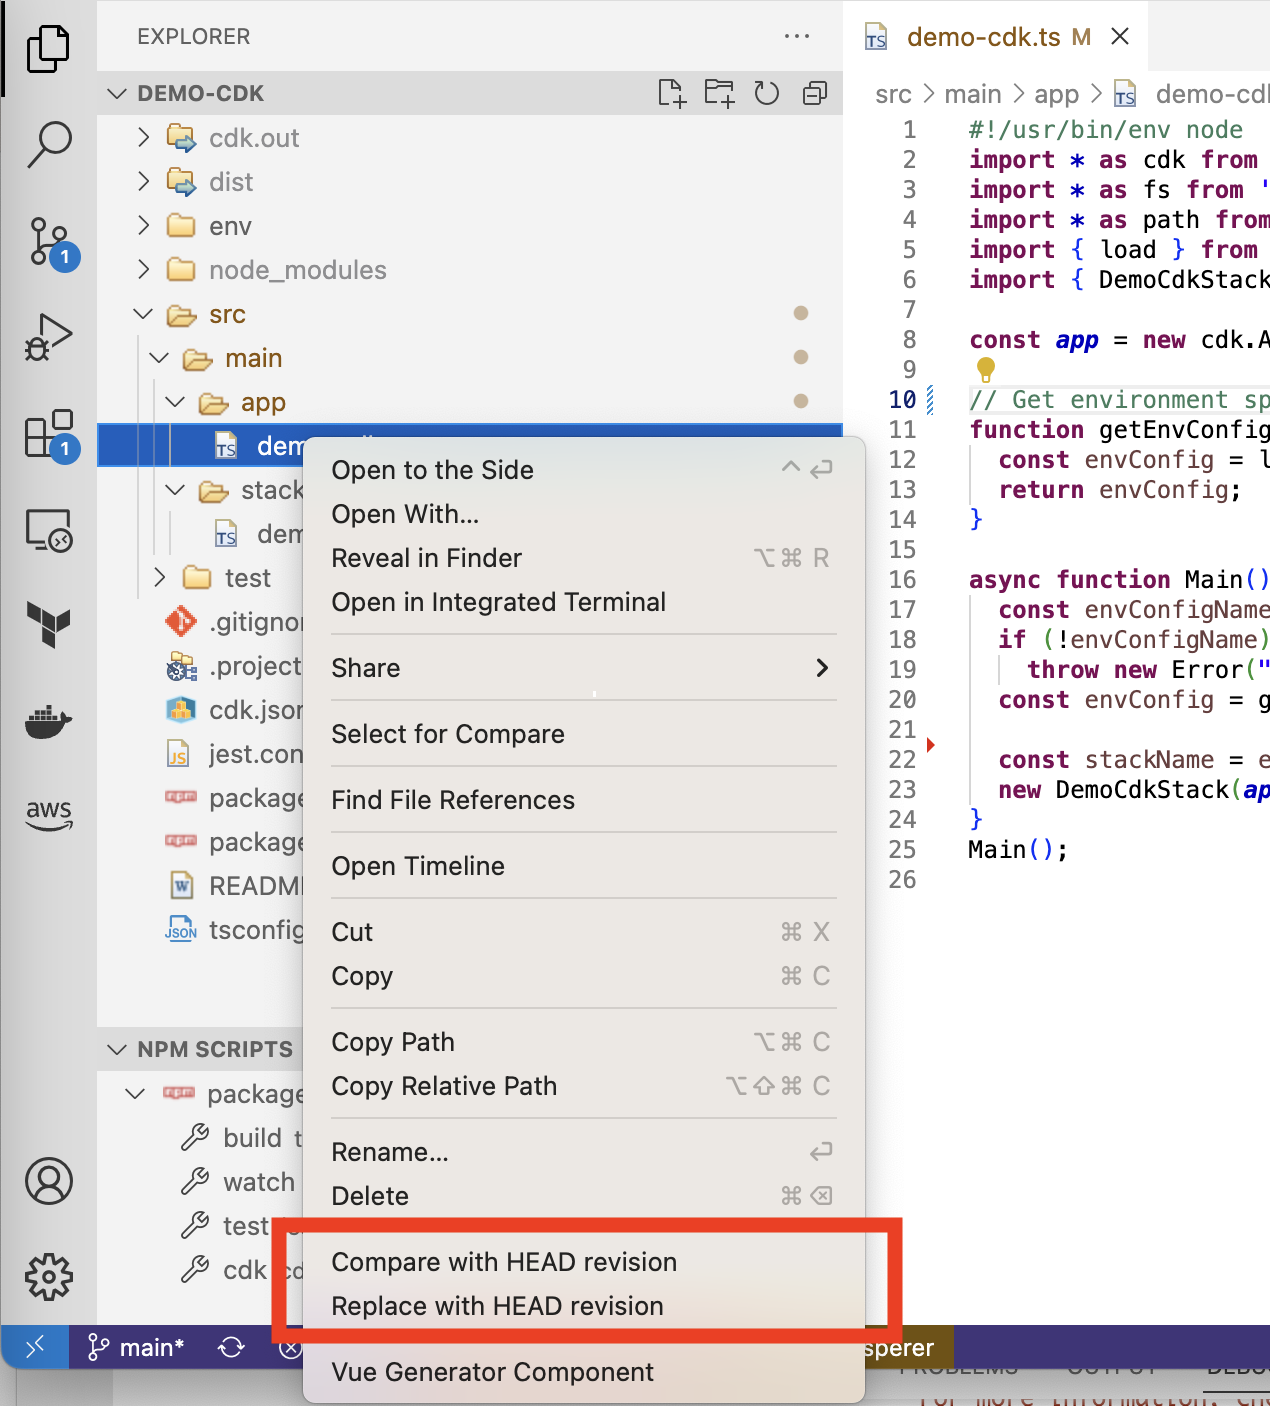
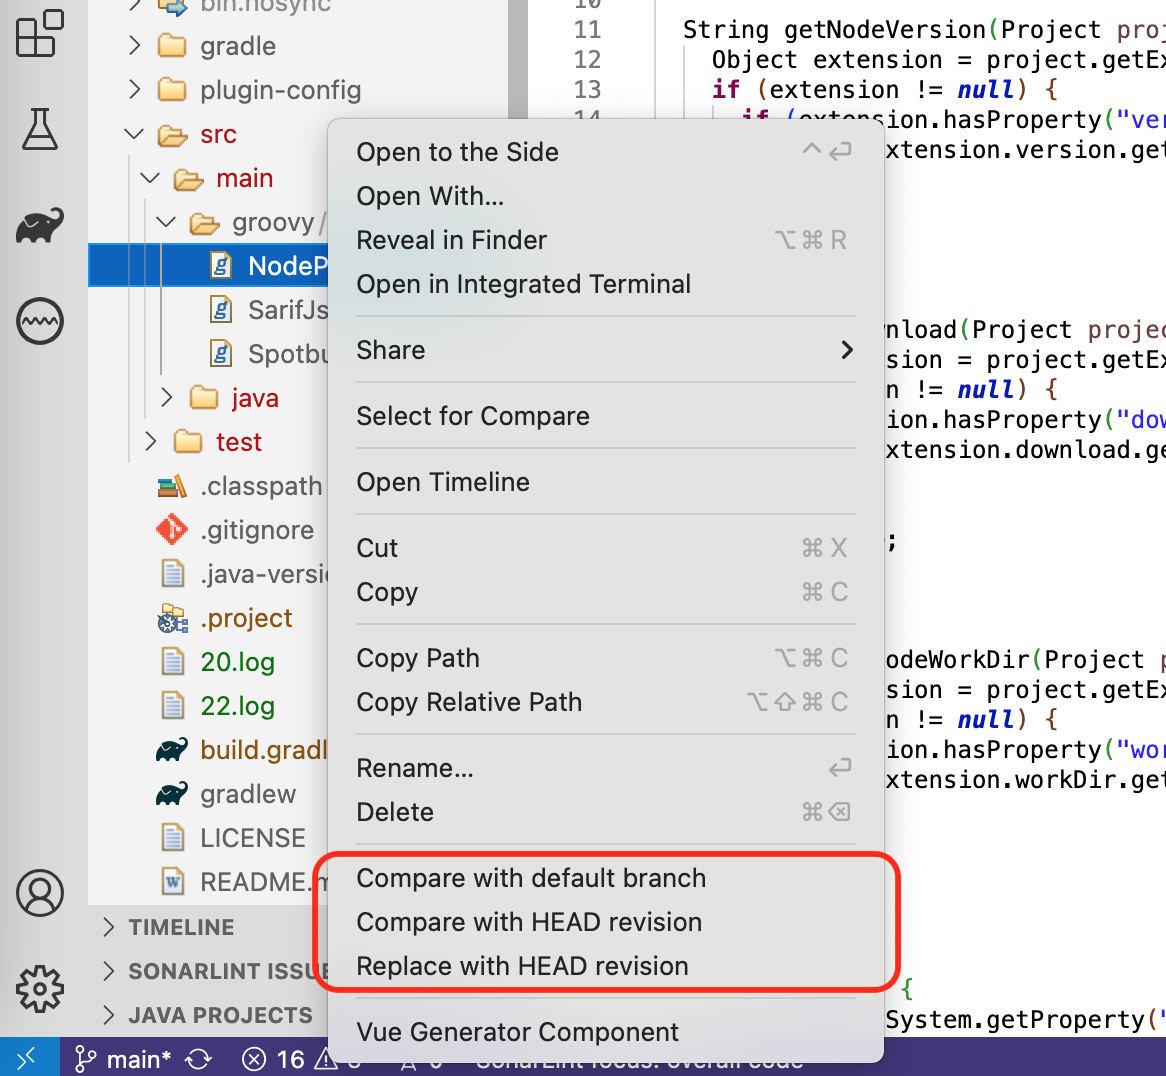
add screenshots

diff --git a/src/extension.ts b/src/extension.ts
@@ -19,7 +19,7 @@ export function activate(context: vscode.ExtensionContext) {
   const gitApi: API = gitExtension.getAPI(1)
 
   context.subscriptions.push(
-    vscode.commands.registerCommand('git-by-solrike.openChangesWithBranch', (uri: vscode.Uri) => {
+    vscode.commands.registerCommand('git-by-solrike.openChangesWithDefaultBranch', (uri: vscode.Uri) => {
       let ref = getDefaultBranch(gitApi, uri)
       const gitUri = gitApi.toGitUri(uri, ref)
       const filePath = uri.path.replace(vscode.workspace.rootPath! + '/', '')
